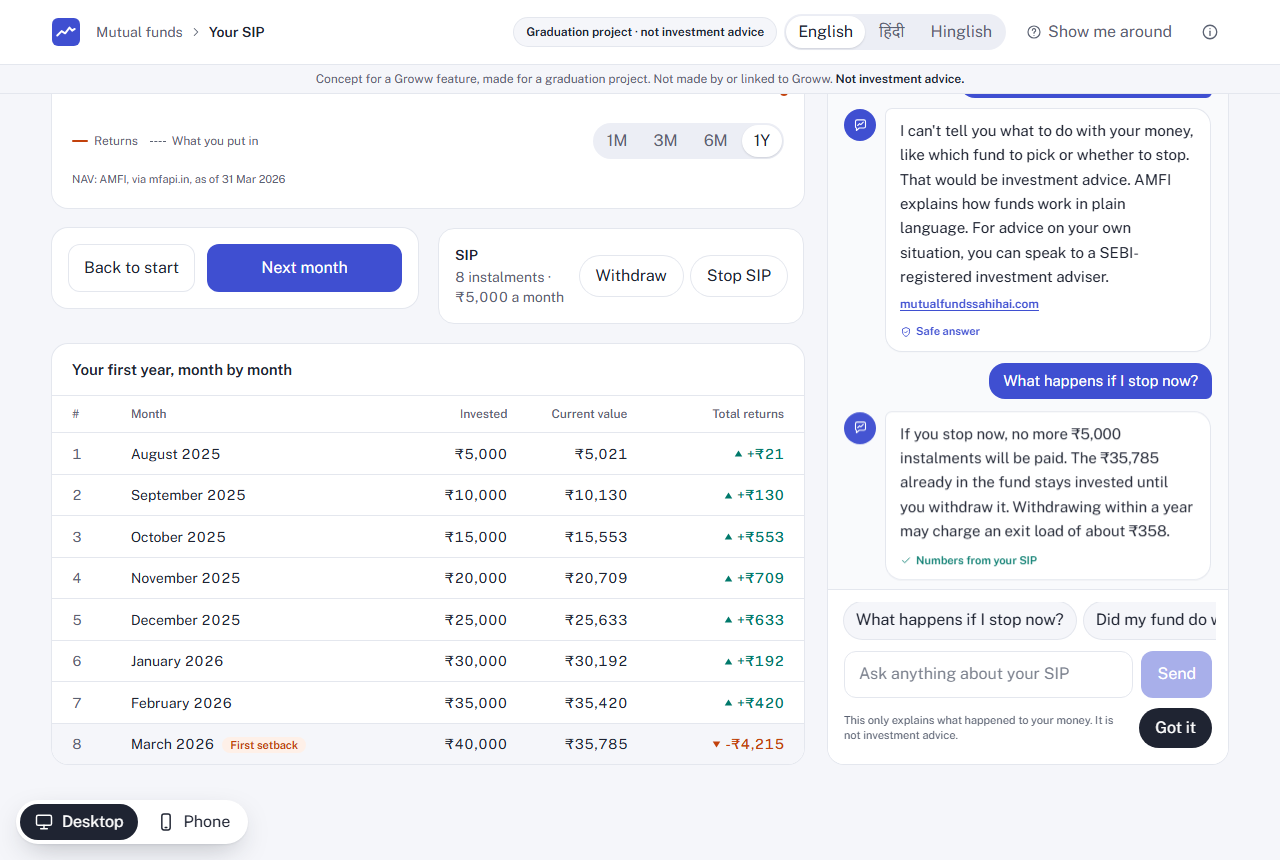
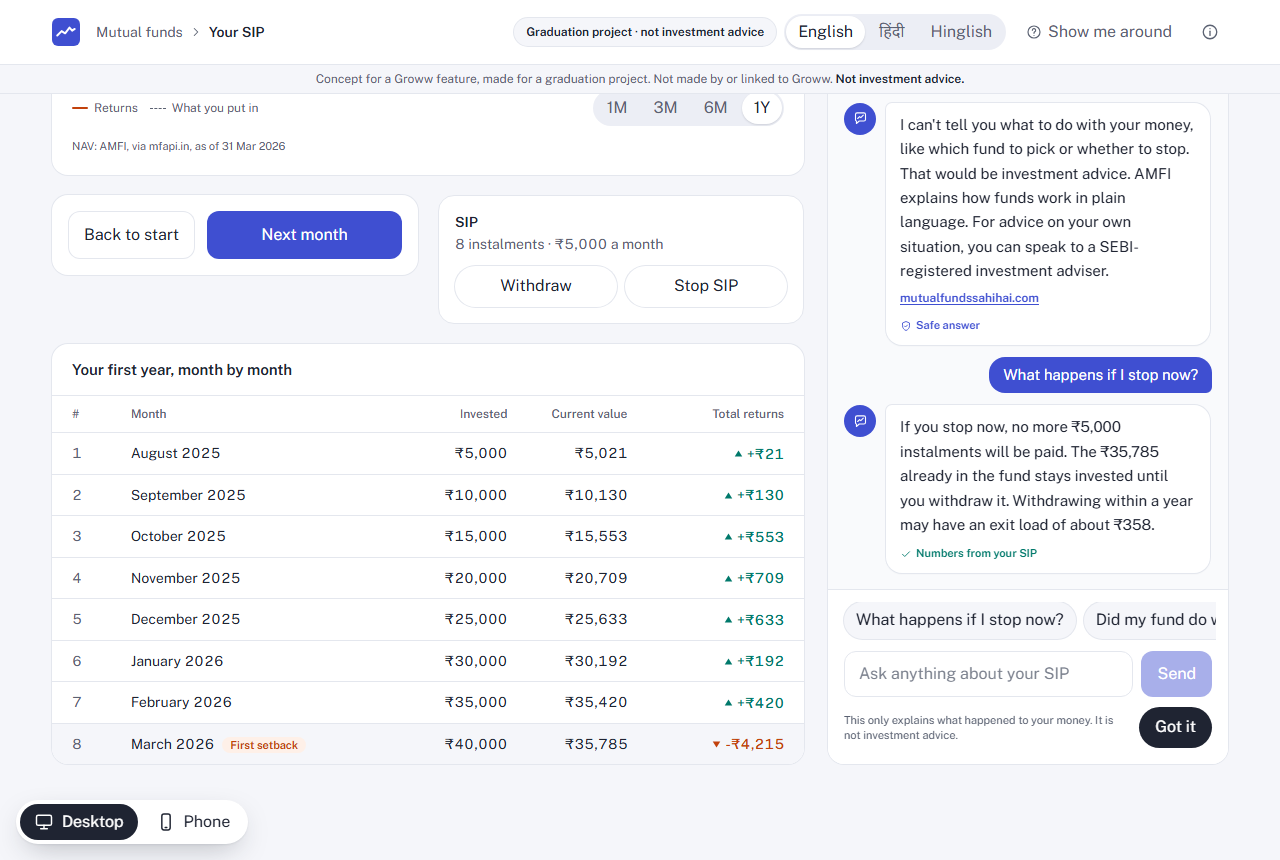
Phone: a Your helper button in the bottom bar (with a dot when it has something to say) reopens the helper, which keeps the chat; Close instead of Back; SIP card buttons on their own row

diff --git a/src/components/sip/sip-screen.tsx b/src/components/sip/sip-screen.tsx
@@ -14,6 +14,8 @@ import { Segmented } from "@/components/ui/segmented";
 import { ArrowLeftIcon, CheckIcon, HelperIcon, TriangleIcon } from "@/components/icons";
 import { HelperSheet, Learn } from "@/components/helper/helper-sheet";
 import { learnCopy } from "@/lib/copy/learn";
+import { consentCopy } from "@/lib/copy/consent";
+import { OverlayLayer } from "@/components/device-shell/overlay-layer";
 import { manageCopy } from "@/lib/copy/manage";
 import { ManageSheet } from "./manage-sheet";
 import { RANGES, ValueChart } from "./value-chart";
@@ -38,6 +40,9 @@ export function SipScreen({ data, onBack, onSample }: Props) {
   const [seenSetback, setSeenSetback] = useState(false);
   const [understood, setUnderstood] = useState(false);
   const [manage, setManage] = useState<"menu" | "withdraw" | null>(null);
+  // A dot on the helper button until the person opens what the helper has to say.
+  const [unread, setUnread] = useState(false);
+  const [waitingOpen, setWaitingOpen] = useState(false);
 
   const snap = snapshots[index];
   const atEnd = index === snapshots.length - 1;
@@ -55,6 +60,17 @@ export function SipScreen({ data, onBack, onSample }: Props) {
       setSheetOpen(true);
       track("setback_shown", { month: snapshots[target].monthNumber });
     }
+  }
+
+  function openHelper() {
+    setUnread(false);
+    if (seenSetback && facts) setSheetOpen(true);
+    else setWaitingOpen(true);
+  }
+
+  function closeHelper() {
+    setSheetOpen(false);
+    if (!understood) setUnread(true);
   }
 
   function understoodNow() {
@@ -140,7 +156,7 @@ export function SipScreen({ data, onBack, onSample }: Props) {
 
   const sipCard = (
     <div className="rounded-2xl border border-line bg-paper p-4">
-      <div className="flex items-center justify-between gap-3">
+      <div className="flex flex-col gap-3">
         <div>
           <p className="text-sm font-semibold">SIP</p>
           <p className="num mt-0.5 text-sm text-muted">
@@ -150,14 +166,14 @@ export function SipScreen({ data, onBack, onSample }: Props) {
           </p>
         </div>
         {/* The stop button never moves and never hides: leaving stays one tap away. */}
-        <div className="flex shrink-0 gap-2">
+        <div className="grid grid-cols-2 gap-2">
           <button
             type="button"
             onClick={() => {
               setManage("withdraw");
               track("manage_opened", { from: "withdraw" });
             }}
-            className="rounded-full px-4 py-2 text-sm font-medium text-ink ring-1 ring-line hover:ring-ink/30"
+            className="min-h-10 rounded-full px-4 py-2 text-sm font-medium text-ink ring-1 ring-line hover:ring-ink/30"
             data-testid="withdraw"
           >
             {t(manageCopy.withdrawButton)}
@@ -168,7 +184,7 @@ export function SipScreen({ data, onBack, onSample }: Props) {
               setManage("menu");
               track("manage_opened", { from: "stop" });
             }}
-            className="rounded-full px-4 py-2 text-sm font-medium text-ink ring-1 ring-line hover:ring-ink/30"
+            className="min-h-10 rounded-full px-4 py-2 text-sm font-medium text-ink ring-1 ring-line hover:ring-ink/30"
             data-tour="stop"
             data-testid="stop"
           >
@@ -341,9 +357,53 @@ export function SipScreen({ data, onBack, onSample }: Props) {
         {endBox && <div className="mx-5 mt-4">{endBox}</div>}
       </main>
 
-      <div className="screen-bottom shrink-0 border-t border-line bg-paper px-5 pb-4 pt-3">{replayControls}</div>
+      <div className="screen-bottom shrink-0 border-t border-line bg-paper px-5 pb-4 pt-3" data-tour="replay">
+        {/* The helper sits in the bar, never over the page, so nothing (least of all Stop SIP) is ever covered. */}
+        <div className="flex items-center gap-2.5">
+          <button
+            type="button"
+            onClick={openHelper}
+            className="relative inline-flex min-h-12 shrink-0 items-center gap-2 rounded-xl bg-primary-soft px-3.5 text-sm font-semibold text-primary ring-1 ring-primary/25"
+            data-testid="helper-fab"
+          >
+            <span className="relative">
+              <HelperIcon width={20} height={20} />
+              {unread && <span className="absolute -right-1 -top-1 size-2.5 rounded-full bg-loss ring-2 ring-primary-soft" aria-hidden />}
+            </span>
+            {t(deskCopy.helperTitle)}
+          </button>
+          <button type="button" onClick={() => goTo(index + 1)} disabled={atEnd} className="btn-primary flex-1" data-testid="next-month">
+            {t(copy.replay.next)}
+          </button>
+        </div>
+        <div className="mt-2 flex items-center justify-between gap-3 text-sm font-medium">
+          <button type="button" onClick={() => goTo(0)} disabled={index === 0} className="text-muted disabled:opacity-40">
+            {t(copy.replay.restart)}
+          </button>
+          {setbackIndex > index && (
+            <button type="button" onClick={() => goTo(setbackIndex)} className="text-primary" data-testid="skip">
+              {t(copy.replay.skip)}
+            </button>
+          )}
+        </div>
+      </div>
 
-      {sheetOpen && facts && <HelperSheet facts={facts} request={request} onClose={() => setSheetOpen(false)} onUnderstood={understoodNow} />}
+      {seenSetback && facts && (
+        <HelperSheet hidden={!sheetOpen} facts={facts} request={request} onClose={closeHelper} onUnderstood={understoodNow} />
+      )}
+      {waitingOpen && (
+        <WaitingSheet
+          onClose={() => setWaitingOpen(false)}
+          onSkip={
+            setbackIndex > index
+              ? () => {
+                  setWaitingOpen(false);
+                  goTo(setbackIndex);
+                }
+              : undefined
+          }
+        />
+      )}
       {manageSheet}
     </div>
   );
@@ -412,5 +472,44 @@ function FirstYear({
         </tbody>
       </table>
     </div>
+  );
+}
+
+/** Phone, before the setback: what the helper will do, and the basics to read meanwhile. */
+function WaitingSheet({ onClose, onSkip }: { onClose: () => void; onSkip?: () => void }) {
+  const t = useT();
+  return (
+    <OverlayLayer>
+      <div className="absolute inset-0 flex flex-col justify-end">
+        <button type="button" aria-label={t(consentCopy.close)} className="anim-scrim absolute inset-0 bg-ink/40" onClick={onClose} />
+        <section
+          role="dialog"
+          aria-modal="true"
+          aria-label={t(deskCopy.helperTitle)}
+          className="anim-sheet relative flex max-h-[85%] flex-col rounded-t-3xl bg-paper shadow-(--shadow-sheet)"
+          data-testid="helper-waiting"
+        >
+          <div className="flex shrink-0 items-center gap-2.5 border-b border-line px-4 pb-3 pt-4">
+            <span className="grid size-8 place-items-center rounded-full bg-primary text-paper" aria-hidden>
+              <HelperIcon width={16} height={16} />
+            </span>
+            <p className="text-[15px] font-semibold">{t(deskCopy.helperTitle)}</p>
+            <button type="button" onClick={onClose} className="ml-auto rounded-full px-3 py-1.5 text-sm font-medium text-muted hover:bg-surface hover:text-ink">
+              {t(consentCopy.close)}
+            </button>
+          </div>
+          <div className="scroll-soft min-h-0 overflow-y-auto px-5 pb-6 pt-4">
+            <p className="text-sm leading-relaxed text-muted">{t(deskCopy.helperWaiting)}</p>
+            {onSkip && (
+              <button type="button" onClick={onSkip} className="mt-3 text-sm font-semibold text-primary">
+                {t(copy.replay.skip)}
+              </button>
+            )}
+            <h3 className="mt-6 text-[13px] font-semibold">{t(learnCopy.heading)}</h3>
+            <Learn />
+          </div>
+        </section>
+      </div>
+    </OverlayLayer>
   );
 }

diff --git a/src/components/helper/helper-sheet.tsx b/src/components/helper/helper-sheet.tsx
@@ -3,6 +3,7 @@
 import { useEffect, useRef, useState } from "react";
 import { AMFI_LINK, copy } from "@/lib/copy/dictionary";
 import { cheerCopy, deskCopy } from "@/lib/copy/tour";
+import { consentCopy } from "@/lib/copy/consent";
 import { learnCards, learnCopy, learnLink } from "@/lib/copy/learn";
 import type { FollowupResponse, ReasonResponse } from "@/lib/api/helper-routes";
 import { askQuestion, explain, GUESSES } from "@/lib/helper";
@@ -30,6 +31,7 @@ export function HelperSheet({
   onClose,
   onUnderstood,
   variant = "sheet",
+  hidden = false,
 }: {
   facts: Facts;
   request: SipRequest;
@@ -37,6 +39,8 @@ export function HelperSheet({
   onUnderstood: () => void;
   /** "sheet": slides up over the phone screen. "panel": fills the desktop side column, with no overlay. */
   variant?: "sheet" | "panel";
+  /** Phone: the sheet stays mounted while closed, so the conversation is still there when it opens again. */
+  hidden?: boolean;
 }) {
   const t = useT();
   const { lang } = useLang();
@@ -255,8 +259,8 @@ export function HelperSheet({
 
   return (
     <OverlayLayer>
-      <div className="absolute inset-0 flex flex-col justify-end">
-        <button type="button" aria-label={t(copy.followup.back)} className="anim-scrim absolute inset-0 bg-ink/40" onClick={onClose} />
+      <div className={`absolute inset-0 flex flex-col justify-end ${hidden ? "hidden" : ""}`}>
+        <button type="button" aria-label={t(consentCopy.close)} className="anim-scrim absolute inset-0 bg-ink/40" onClick={onClose} />
         <section
           role="dialog"
           aria-modal="true"
@@ -270,8 +274,8 @@ export function HelperSheet({
               <HelperIcon width={16} height={16} />
             </span>
             <p className="mt-3 text-[15px] font-semibold">{t(deskCopy.helperTitle)}</p>
-            <button type="button" onClick={onClose} className="ml-auto mt-3 rounded-full px-3 py-1.5 text-sm font-medium text-muted hover:bg-surface hover:text-ink">
-              {t(copy.followup.back)}
+            <button type="button" onClick={onClose} className="ml-auto mt-3 rounded-full px-3 py-1.5 text-sm font-medium text-muted hover:bg-surface hover:text-ink" data-testid="helper-close">
+              {t(consentCopy.close)}
             </button>
           </div>
           {thread}

diff --git a/e2e/sample-flow.spec.ts b/e2e/sample-flow.spec.ts
@@ -161,3 +161,23 @@ test("consent: the first visit asks first, in any language, and the About popup 
   await page.reload();
   await expect(page.getByTestId("consent")).toBeHidden();
 });
+
+test("helper: on a phone it can be closed and reopened from the helper button, and keeps the chat", async ({ page }, info) => {
+  test.skip(info.project.name !== "phone", "the floating helper button is the phone layout");
+  await page.goto("/");
+  await page.getByTestId("sample").click();
+  await page.getByTestId("sample-start").click();
+  // Before the setback the button opens what the helper will do, with the basics.
+  await page.getByTestId("helper-fab").click();
+  await expect(page.getByTestId("helper-waiting")).toBeVisible();
+  await page.getByTestId("helper-waiting").getByRole("button", { name: "Close" }).first().click();
+  await page.getByTestId("skip").click();
+  await page.getByTestId("guess-market").click();
+  await expect(page.getByTestId("answer")).toContainText("You read it right.");
+  await page.getByTestId("helper-close").click();
+  await expect(page.getByTestId("helper")).toBeHidden();
+  await page.waitForTimeout(300);
+  await page.screenshot({ path: "docs/screens/phone-11-helper-button.png" });
+  await page.getByTestId("helper-fab").click();
+  await expect(page.getByTestId("answer")).toContainText("You read it right.");
+});
